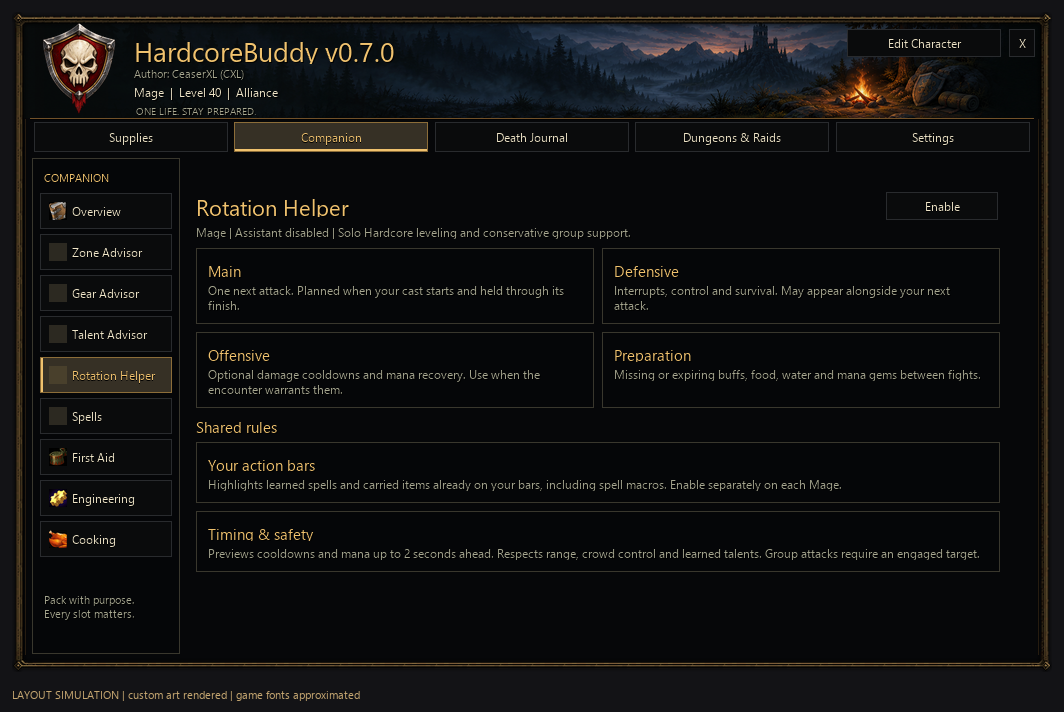
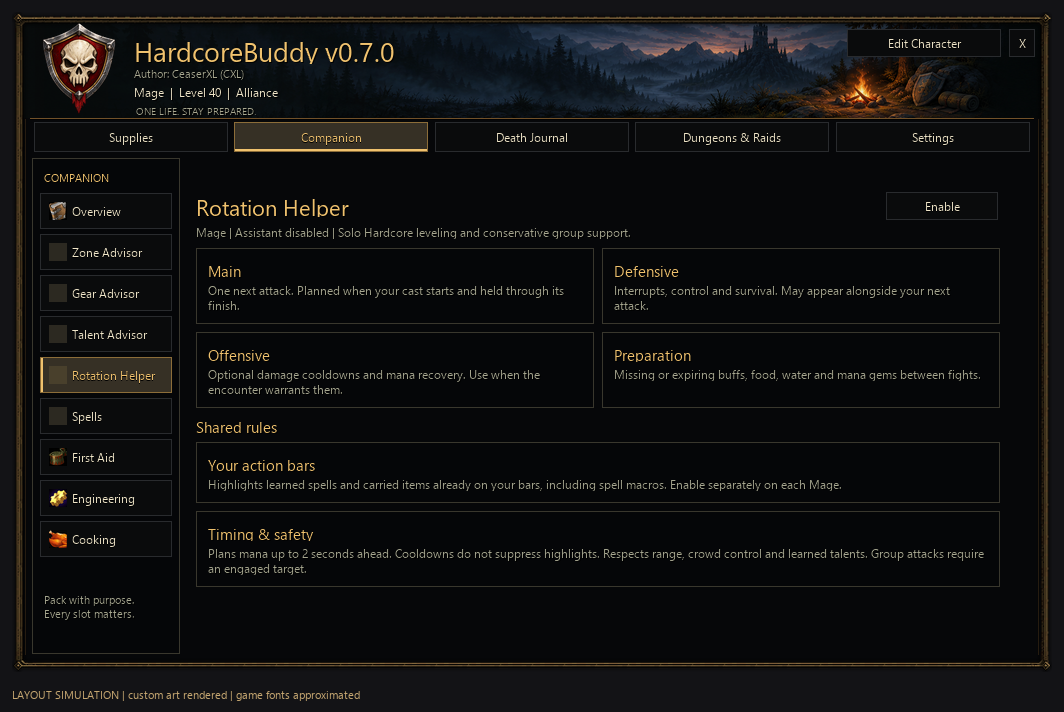
Remove cooldown gate from rotation highlights

Changed region(s): [[0.1861, 0.7725, 0.9305, 0.8034]]

diff --git a/docs/rotation-helper.md b/docs/rotation-helper.md
@@ -28,8 +28,10 @@ spell to highlight. The ability must be on a visible action bar.
 - Only learned spells and carried recovery items are eligible. Rank changes and
   talent changes refresh the available actions. Actual player data is used even
   if the field kit is previewing another character.
-- Main previews true cooldowns up to two seconds ahead and ignores the global
-  cooldown. At cast start it plans for that cast's completion, reserving its mana
+- Cooldowns do not gate highlights in any category, including item highlights.
+  Cooldown information still informs class rules such as whether Cold Snap can
+  reset an unavailable survival spell. Main plans mana up to two seconds ahead.
+  At cast start it plans for that cast's completion, reserving its mana
   cost and crediting only reported casting regeneration. It does not predict
   random procs, damage, or uncertain future resource gains.
 - The next Main action is committed at cast start, including an empty plan.
@@ -109,8 +111,8 @@ damage formulas. No retired rotation implementation was restored.
 ## Verification
 
 `tests/run_rotation_helper.py` checks scenario sequences rather than isolated
-spell priorities: late target-health changes, committed mana, GCDs, cooldown
-lead, range changes, macros, roots versus immunity, stronger buffs, recovery,
+spell priorities: late target-health changes, committed mana, cooldown-independent
+highlights, range changes, macros, roots versus immunity, stronger buffs, recovery,
 disabled state, unsupported classes and native-glow ownership. The legacy
 cleanup test still verifies that old saved traces are discarded.
 
